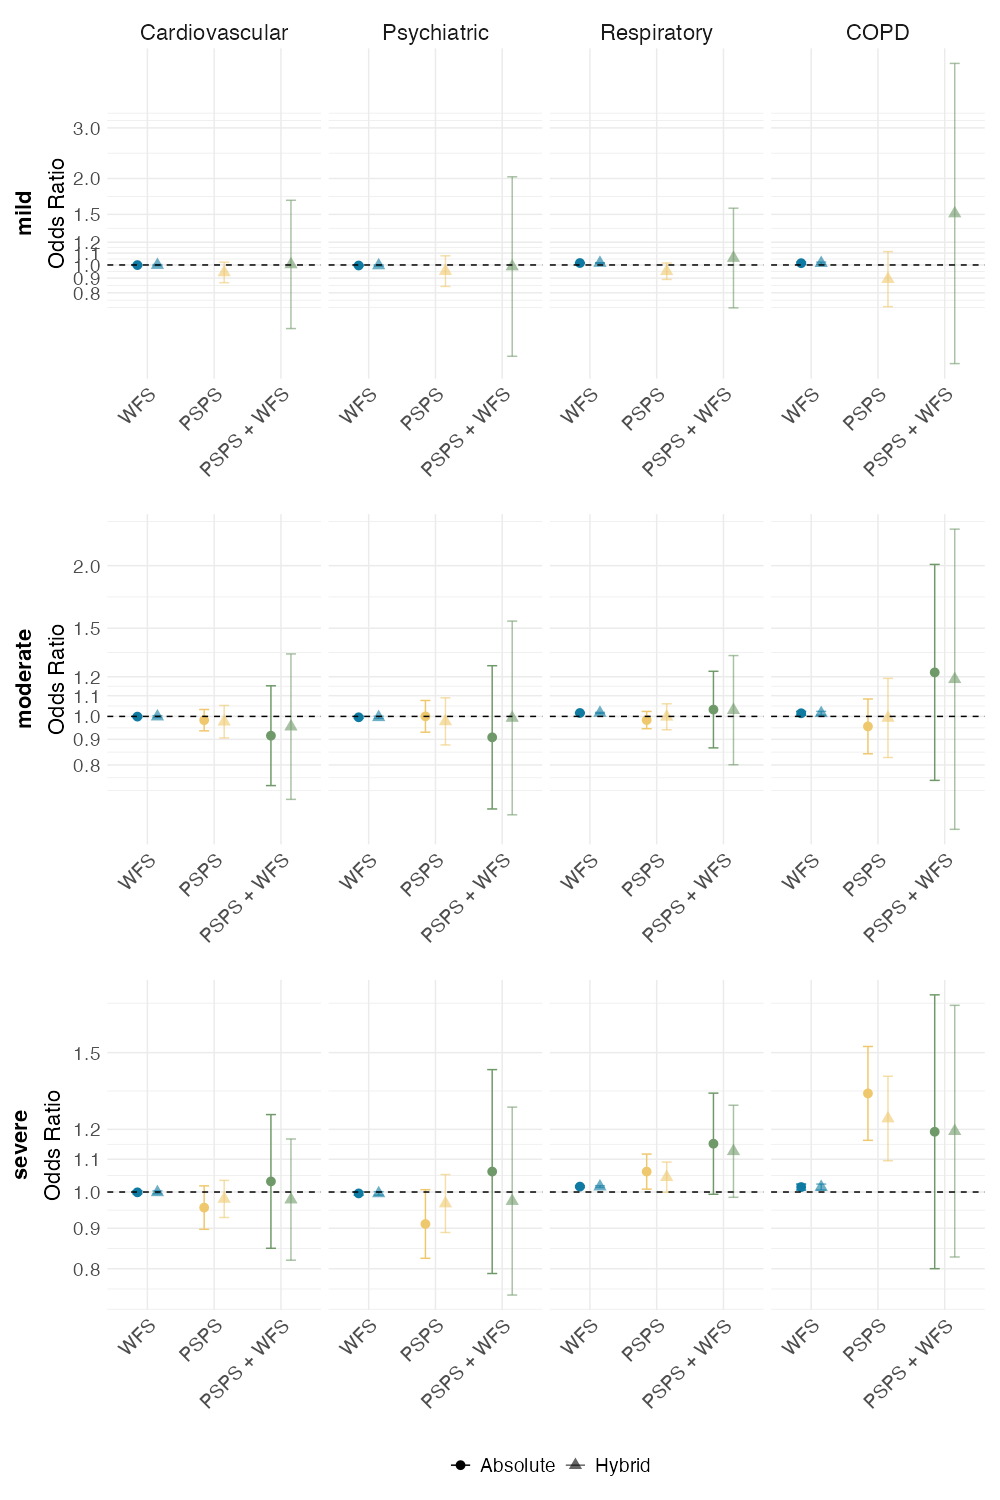
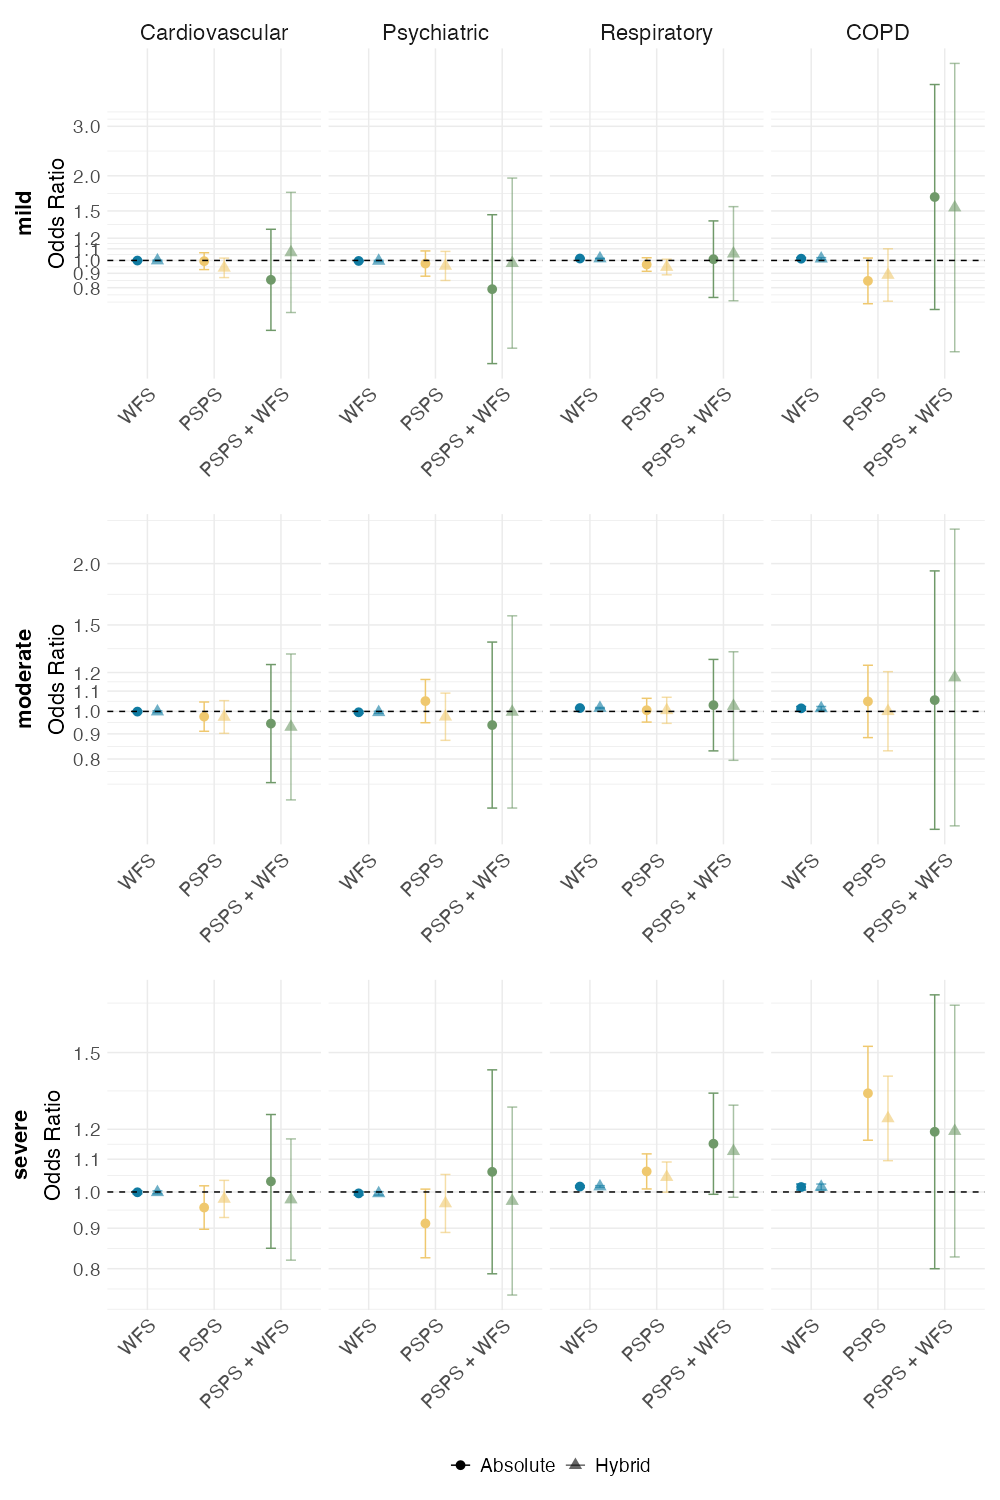
updated run with all new results and new table 1

diff --git a/analysis-values.tex b/analysis-values.tex
@@ -1,39 +1,39 @@
-\newcommand{\casedaysabs}{9,319,806}
+\newcommand{\casedaysabs}{13,207,978}
 \newcommand{\casedaysabssevcvd}{12,549}
 \newcommand{\casedaysabssevresp}{18,159}
-\newcommand{\casedayshyb}{9,319,806}
+\newcommand{\casedayshyb}{13,207,978}
 \newcommand{\cazipcodes}{1,721}
-\newcommand{\controldaysabs}{31,621,026}
-\newcommand{\controldayshyb}{31,621,026}
-\newcommand{\copdabscihigh}{1.5}
-\newcommand{\copdabscilow}{1.0}
+\newcommand{\controldaysabs}{44,819,948}
+\newcommand{\controldayshyb}{44,819,948}
+\newcommand{\copdabscihigh}{1.4}
+\newcommand{\copdabscilow}{1.1}
 \newcommand{\copdabsor}{1.2}
-\newcommand{\copdhybcihigh}{1.6}
-\newcommand{\copdhybcilow}{1.0}
+\newcommand{\copdhybcihigh}{1.5}
+\newcommand{\copdhybcilow}{1.2}
 \newcommand{\copdhybor}{1.3}
 \newcommand{\cvdcasedayssev}{12,549}
 \newcommand{\highestencountersexplevel}{Severe}
 \newcommand{\meanwfpm}{0.2}
 \newcommand{\medianduration}{85.8}
 \newcommand{\mostcommonsevabs}{Severe}
-\newcommand{\mostcommonsevhyb}{Moderate}
+\newcommand{\mostcommonsevhyb}{Mild}
 \newcommand{\npspsevents}{64}
 \newcommand{\psychcasedayssev}{5,099}
 \newcommand{\respabscihigh}{1.1}
-\newcommand{\respabscilow}{0.9}
+\newcommand{\respabscilow}{1.0}
 \newcommand{\respabsor}{1.0}
 \newcommand{\respcasedayssev}{18,159}
 \newcommand{\resphybcihigh}{1.1}
-\newcommand{\resphybcilow}{0.9}
-\newcommand{\resphybor}{1.0}
-\newcommand{\respintabscihigh}{1.5}
+\newcommand{\resphybcilow}{1.0}
+\newcommand{\resphybor}{1.1}
+\newcommand{\respintabscihigh}{1.2}
 \newcommand{\respintabscilow}{1.0}
-\newcommand{\respintabsor}{1.2}
-\newcommand{\respinthybcihigh}{1.5}
+\newcommand{\respintabsor}{1.1}
+\newcommand{\respinthybcihigh}{1.2}
 \newcommand{\respinthybcilow}{1.0}
-\newcommand{\respinthybor}{1.3}
+\newcommand{\respinthybor}{1.1}
 \newcommand{\secondmostcommonsevabs}{Mild}
-\newcommand{\secondmostcommonsevhyb}{Severe}
+\newcommand{\secondmostcommonsevhyb}{Moderate}
 \newcommand{\zipcodedayswf}{1,229,438}
 \newcommand{\zipcodeswithevents}{876}
 \newcommand{\zipdays}{11,527}
